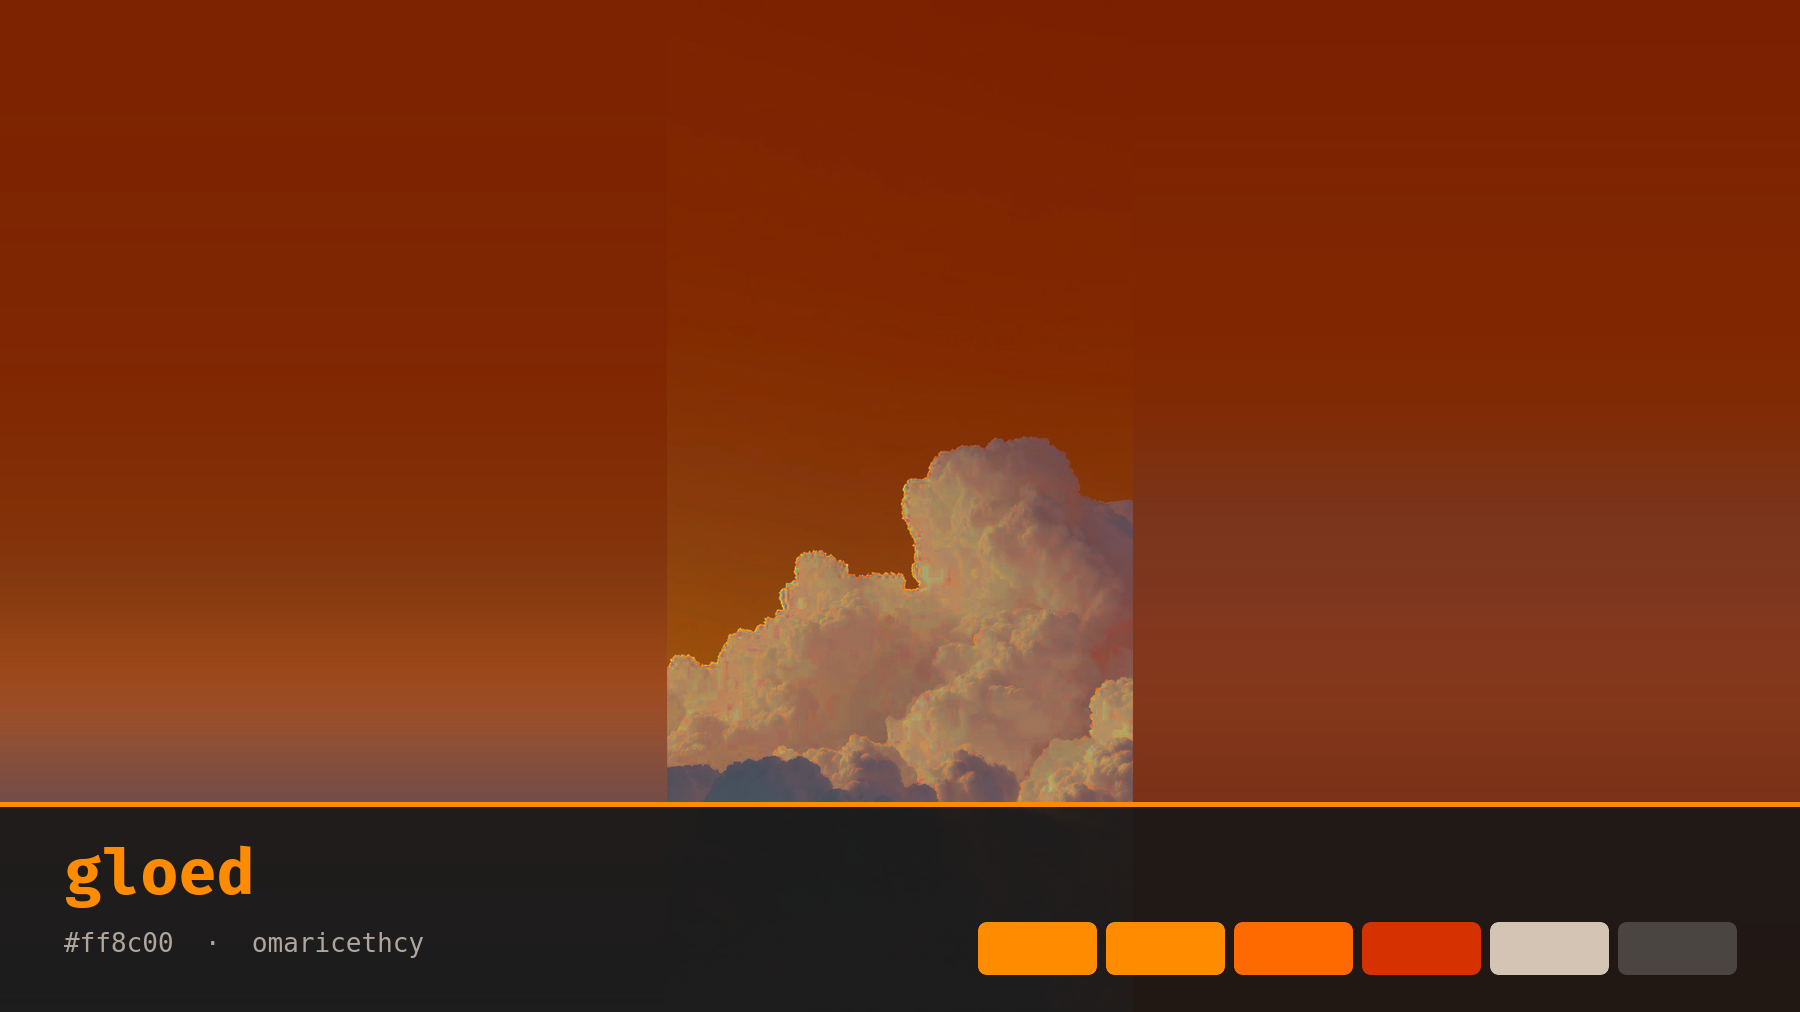
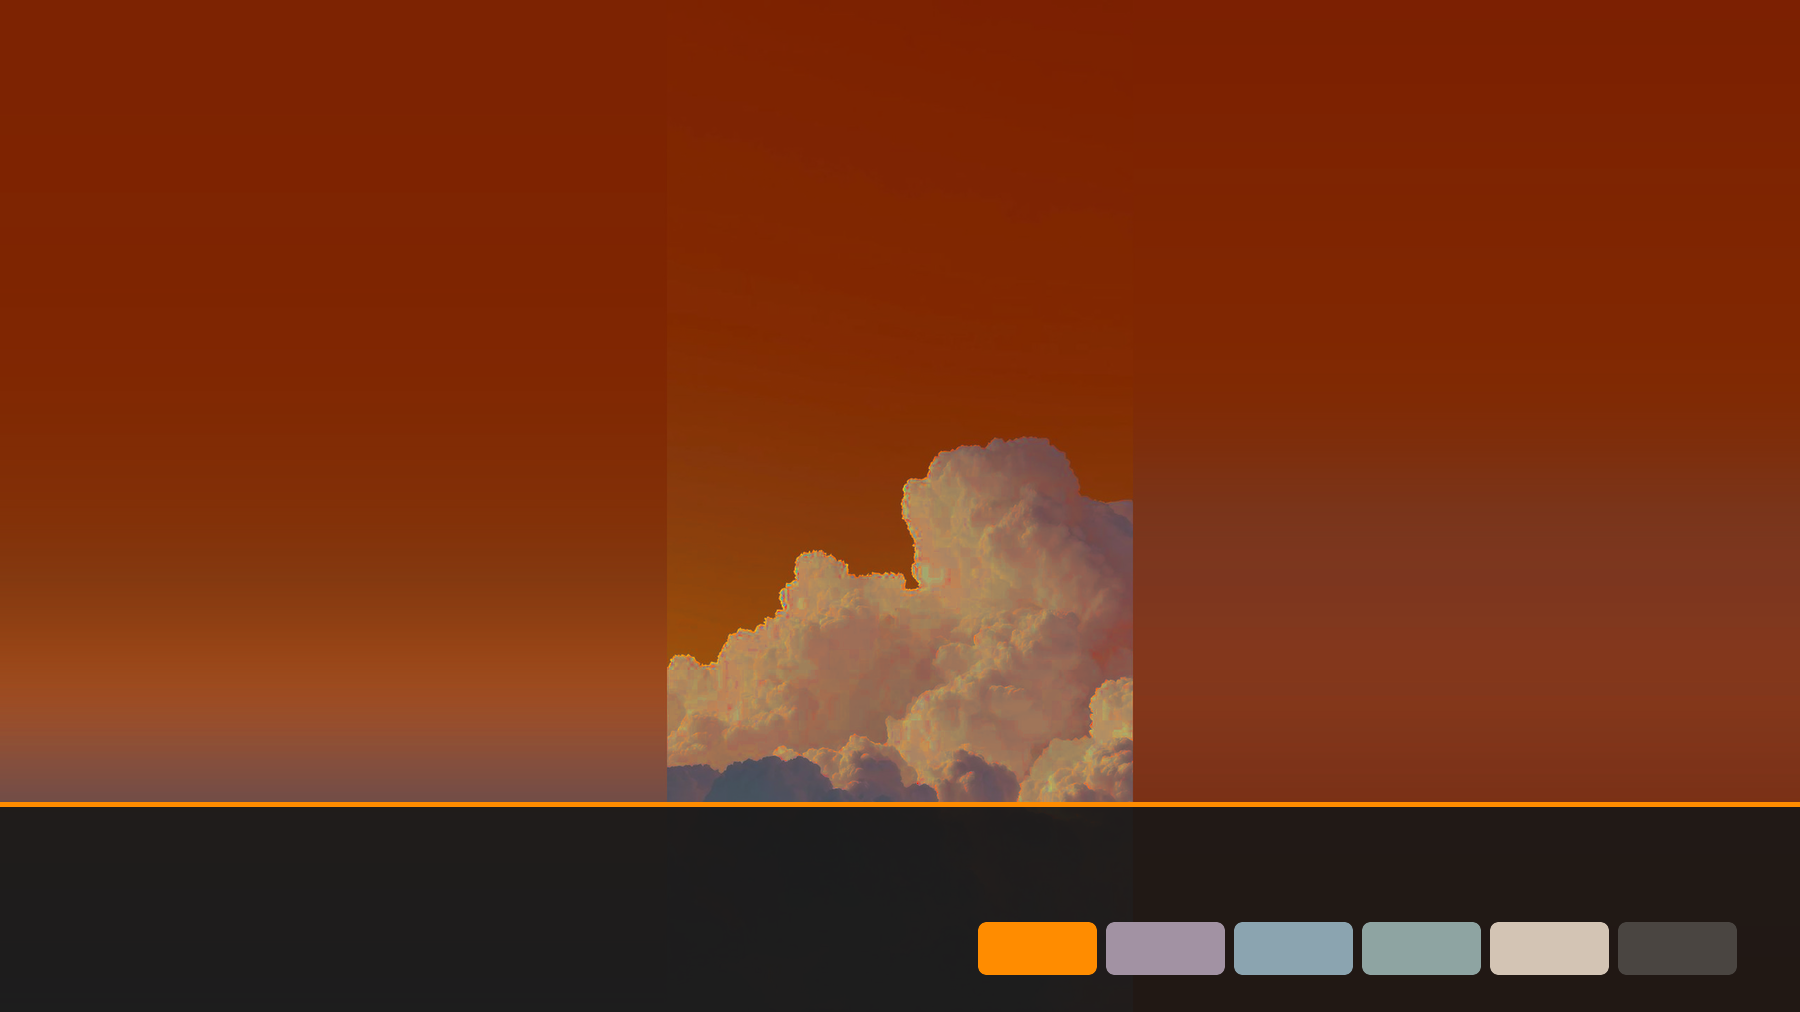
refactor(previews): remove picker text
Constraint: Preserve visual picker cues
Confidence: high
Scope-risk: narrow

Changed region(s): [[0.5911, 0.8883, 0.84, 0.9802], [0.0311, 0.8271, 0.1556, 0.9496], [0.1244, 0.919, 0.2489, 0.9496]]

diff --git a/bin/test_omaricethcy_preview.py b/bin/test_omaricethcy_preview.py
@@ -1,0 +1,79 @@
+#!/usr/bin/env python3
+"""Self-check for picker previews. Run: python3 bin/test_omaricethcy_preview.py"""
+
+import importlib.machinery
+import importlib.util
+import pathlib
+
+BIN = pathlib.Path(__file__).resolve().parent
+REPOSITORY = BIN.parent
+loader = importlib.machinery.SourceFileLoader("omaricethcy_preview", str(BIN / "omaricethcy-preview"))
+spec = importlib.util.spec_from_loader(loader.name, loader)
+preview = importlib.util.module_from_spec(spec)
+loader.exec_module(preview)
+
+THEME_NAMES = ("goud", "gloed")
+
+
+def command_for(theme_name):
+    command = preview.preview_command(REPOSITORY / "themes" / theme_name)
+    assert command is not None
+    return command
+
+
+def selected_swatches(theme_dir):
+    colors = preview.read_palette(theme_dir)
+    ramp = [colors[f"color{index}"] for index in (5, 4, 6) if f"color{index}" in colors]
+    neutrals = [colors.get(key) for key in ("color7", "color8")]
+    return [colors.get("accent", colors.get("foreground", "#ede4c8"))] + ramp + [
+        value for value in neutrals if value
+    ]
+
+
+def draw_arguments(command):
+    return [argument for option, argument in zip(command, command[1:]) if option == "-draw"]
+
+
+def test_preview_commands_have_no_annotations():
+    for theme_name in THEME_NAMES:
+        command = command_for(theme_name)
+        assert "-annotate" not in command, command
+
+
+def test_preview_commands_retain_lower_strip_and_accent_rule():
+    strip_top = preview.HEIGHT - preview.STRIP_HEIGHT
+    for theme_name in THEME_NAMES:
+        command = command_for(theme_name)
+        colors = preview.read_palette(REPOSITORY / "themes" / theme_name)
+        option_values = list(zip(command, command[1:]))
+        draw_commands = draw_arguments(command)
+
+        assert ("-fill", f"{colors['background']}E8") in option_values
+        assert f"rectangle 0,{strip_top} {preview.WIDTH},{preview.HEIGHT}" in draw_commands
+        assert ("-fill", colors["accent"]) in option_values
+        assert f"rectangle 0,{strip_top} {preview.WIDTH},{strip_top + 4}" in draw_commands
+
+
+def test_preview_commands_draw_each_selected_swatch_once():
+    for theme_name in THEME_NAMES:
+        theme_dir = REPOSITORY / "themes" / theme_name
+        command = command_for(theme_name)
+        swatch_draws = []
+        for draw_index, option in enumerate(command[:-1]):
+            if option != "-draw" or not command[draw_index + 1].startswith("roundrectangle"):
+                continue
+            fill_index = max(
+                index for index, candidate in enumerate(command[:draw_index]) if candidate == "-fill"
+            )
+            swatch_draws.append((command[fill_index + 1], command[draw_index + 1]))
+
+        assert [color for color, draw in swatch_draws] == selected_swatches(theme_dir)
+        assert len(swatch_draws) == len(selected_swatches(theme_dir))
+
+
+if __name__ == "__main__":
+    tests = [value for name, value in sorted(globals().items()) if name.startswith("test_")]
+    for test in tests:
+        test()
+        print(f"ok  {test.__name__}")
+    print(f"\n{len(tests)} passed")

diff --git a/README.md b/README.md
@@ -405,7 +405,7 @@ Earlier rounds of this rice restyled Walker and a separately-installed quickshel
 omaricethcy-preview          # rebuild for every theme
 ```
 
-It composes 1800x1012 from the theme's own assets — a dimmed wallpaper backdrop, an accent rule, the theme name, and the ramp and semantic swatches. Nothing is screenshotted, so previews are reproducible and carry none of the desktop's contents.
+It composes 1800x1012 from the theme's own assets — a dimmed wallpaper backdrop, an accent rule, and the ramp and semantic swatches. `preview.png` carries no theme label because Omarchy supplies the name outside the image. Nothing is screenshotted, so previews are reproducible and carry none of the desktop's contents.
 
 Why each override exists, rather than taking the generated version:
 
